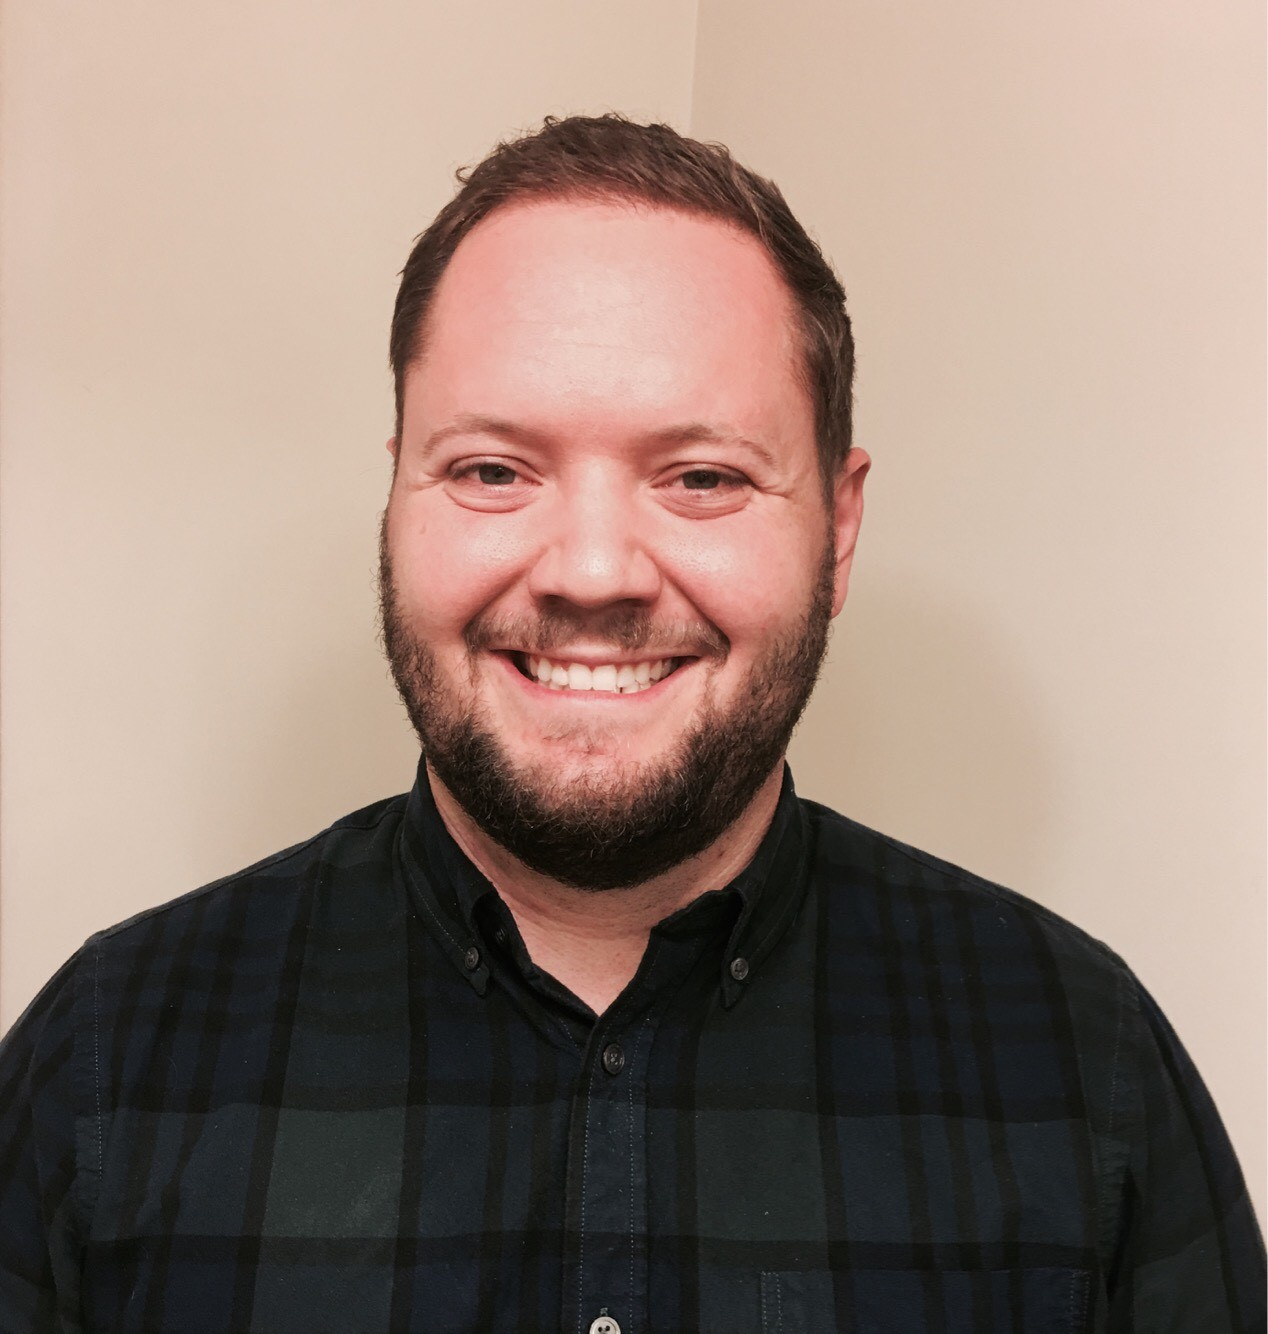
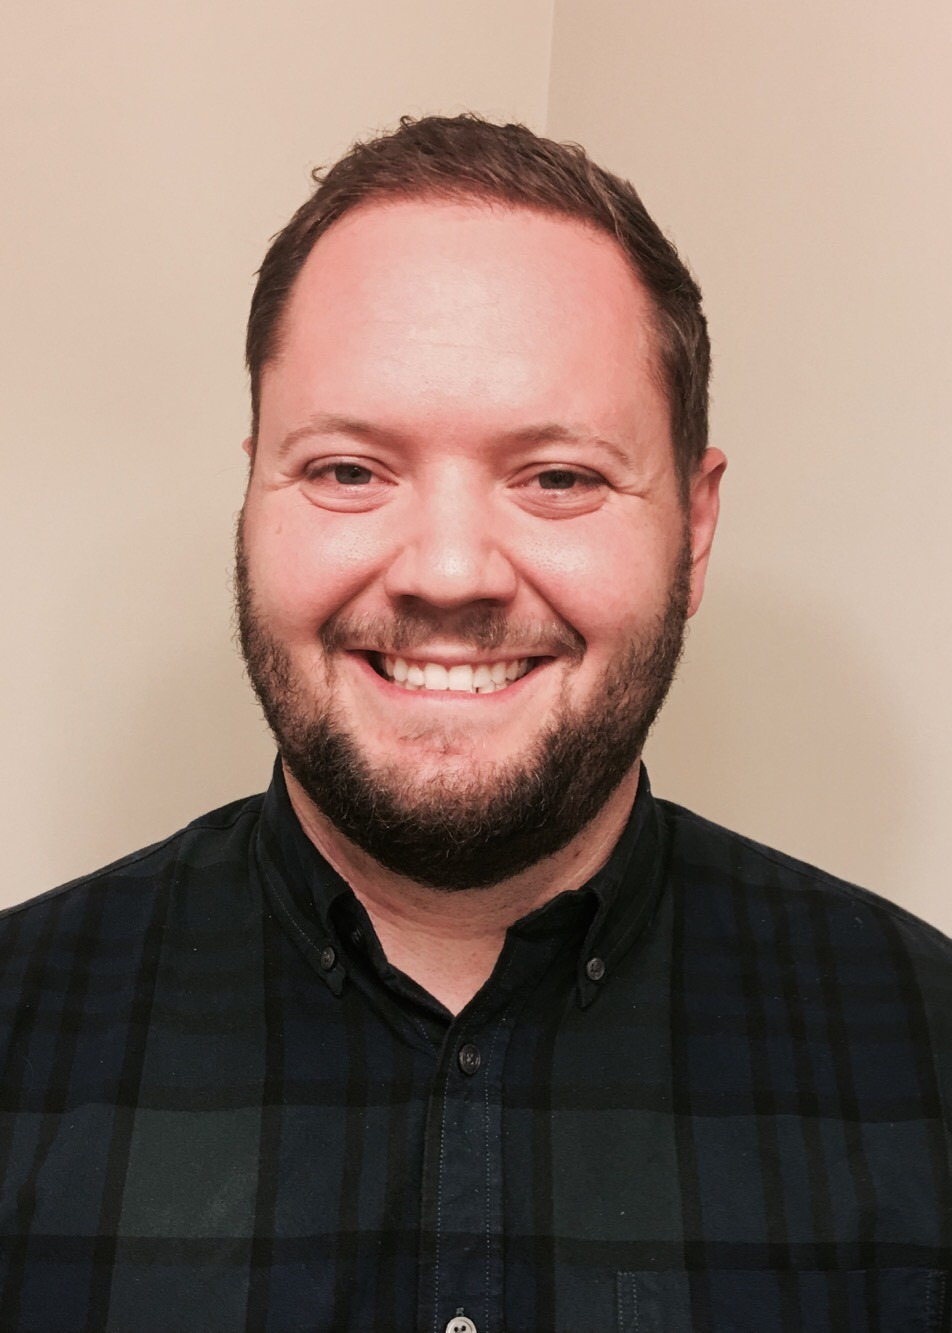
Slick works now, and ain't she pretty.

diff --git a/about-us.html b/about-us.html
@@ -5,6 +5,8 @@
   <meta name="viewport" content="width=device-width,initial-scale=1">
     <title>About Us</title>
     <link href="https://fonts.googleapis.com/css?family=Roboto|Roboto+Condensed" rel="stylesheet">
+      <link rel="stylesheet" type="text/css" href="slick/slick.css"/>
+      <link rel="stylesheet" type="text/css" href="slick/slick-theme.css"/>
     <link rel="stylesheet" href="stylesheet.css" type="text/css">    
   </head>
   <body>
@@ -40,45 +42,38 @@
 			</ul>
 		  </div>
 		  <div class="pictures">
-			<div><img class="mySlides" src="images/ivy.jpg" height="300"></div>
-			<div><img class="mySlides" src="images/justin.jpg" height="300"></div>
-			<div><img class="mySlides" src="images/michael.jpg" height="300"></div>
-			<div><img class="mySlides" src="images/justinh.jpg" height="300"></div>
-			<div><img class="mySlides" src="images/tannerh.jpg" height="300"></div>
-			<div><img class="mySlides" src="images/jordan.jpg" height="300"></div>
-			<div><img class="mySlides" src="images/tanner.jpg" height="300"></div>
-			<button class="w3-button w3-display-left" onclick="plusDivs(-1)">&#10094;</button>
-			<button class="w3-button w3-display-right" onclick="plusDivs(+1)">&#10095;</button>
+			<div><img class="mySlides" src="images/ivy.jpg" height="400"></div>
+			<div><img class="mySlides" src="images/justin.jpg" height="400"></div>
+			<div><img class="mySlides" src="images/michael.jpg" height="400"></div>
+			<div><img class="mySlides" src="images/justinh.jpg" height="400"></div>
+			<div><img class="mySlides" src="images/tannerh.jpg" height="400"></div>
+			<div><img class="mySlides" src="images/jordan.jpg" height="400"></div>
+			<div><img class="mySlides" src="images/tanner.jpg" height="400"></div>
+			<!-- <button class="w3-button w3-display-left" onclick="plusDivs(-1)">&#10094;</button>
+			<button class="w3-button w3-display-right" onclick="plusDivs(+1)">&#10095;</button> -->
 		  </div>
 	  </div>
 	  <div class="container" id="footer">
 		<img id ="byu" src="images/BYU_logo.png" alt="Byu Logo" height="200">
-		<img src="images/fordchallenge.jpg" alt="Ford Logo" height="200">
+		<img id="ford" src="images/fordchallenge.jpg" alt="Ford Logo"  height="200">
 	  </div>
 	  
+      <script type="text/javascript" src="//code.jquery.com/jquery-1.11.0.min.js"></script>
+      <script type="text/javascript" src="//code.jquery.com/jquery-migrate-1.2.1.min.js"></script>
+      <script type="text/javascript" src="slick/slick.min.js"></script>
+      
+      <script type="text/javascript">
+        $(document).ready(function(){
+            $('.pictures').slick({
+                slidesToShow:3,
+                autoplay: true,
+                autoplaySpeed: 2000,
+                dots:true,
+            });
+        });
+      
+      </script>
   
-  <script type="text/javascript">
-	var slideIndex = 1;
-	showDivs(slideIndex);
-
-	function plusDivs(n) {
-		showDivs(slideIndex += n);
-	}
-
-	function showDivs(n) {
-		var i;
-		var x = document.getElementsByClassName("mySlides");
-		if (n > x.length) {slideIndex = 1} 
-		if (n < 1) {slideIndex = x.length} ;
-		for (i = 0; i < x.length; i++) {
-			x[i].style.display = "none"; 
-		}
-		x[slideIndex-1].style.display = "block"; 
-	}
-	
-   if (document.addEventListener) document.addEventListener("DOMContentLoaded", autorun, false);
-   else if (document.attachEvent) document.attachEvent("onreadystatechange", autorun);
-   else window.onload = autorun;
-  </script>
+      
   </body>
 </html>

diff --git a/stylesheet.css b/stylesheet.css
@@ -5,7 +5,6 @@ div{
 body{
     background-color:#d9e6f2;
     font-family: 'Roboto', sans-serif;
-
 }
 
 a{
@@ -14,7 +13,6 @@ a{
     border-color: lightblue;
     padding:10px;
     color:black;
-
 }
 
 a:visited{
@@ -36,7 +34,6 @@ li a:hover:not(.active) {
 .navbar{
 	display:flex;
 	float:right;
-	
 }
 
 .navbar li {
@@ -60,11 +57,14 @@ li a:hover:not(.active) {
 	flex:3;
 	text-align: justify;
     font-family: 'Roboto Condensed', sans-serif;
+    padding-bottom: 0;
+    margin-bottom:0;
+}
+#general-overview li{
+    padding-bottom: .5em;
 }
 #main{
-	display:flex;
     width:50%;
-    margin: auto;
 }
 
 h1{
@@ -74,14 +74,14 @@ h1{
     padding:2em;
 }
 
-.pictures{
-	display:flex;
-    padding-top:4em;
-    flex:2;
+img{
+
+    border-radius: 50%;
 }
 
-.person{
-	flex:1;
+
+#ford{
+    border-radius: 0px;
 }
 
 #holder{
